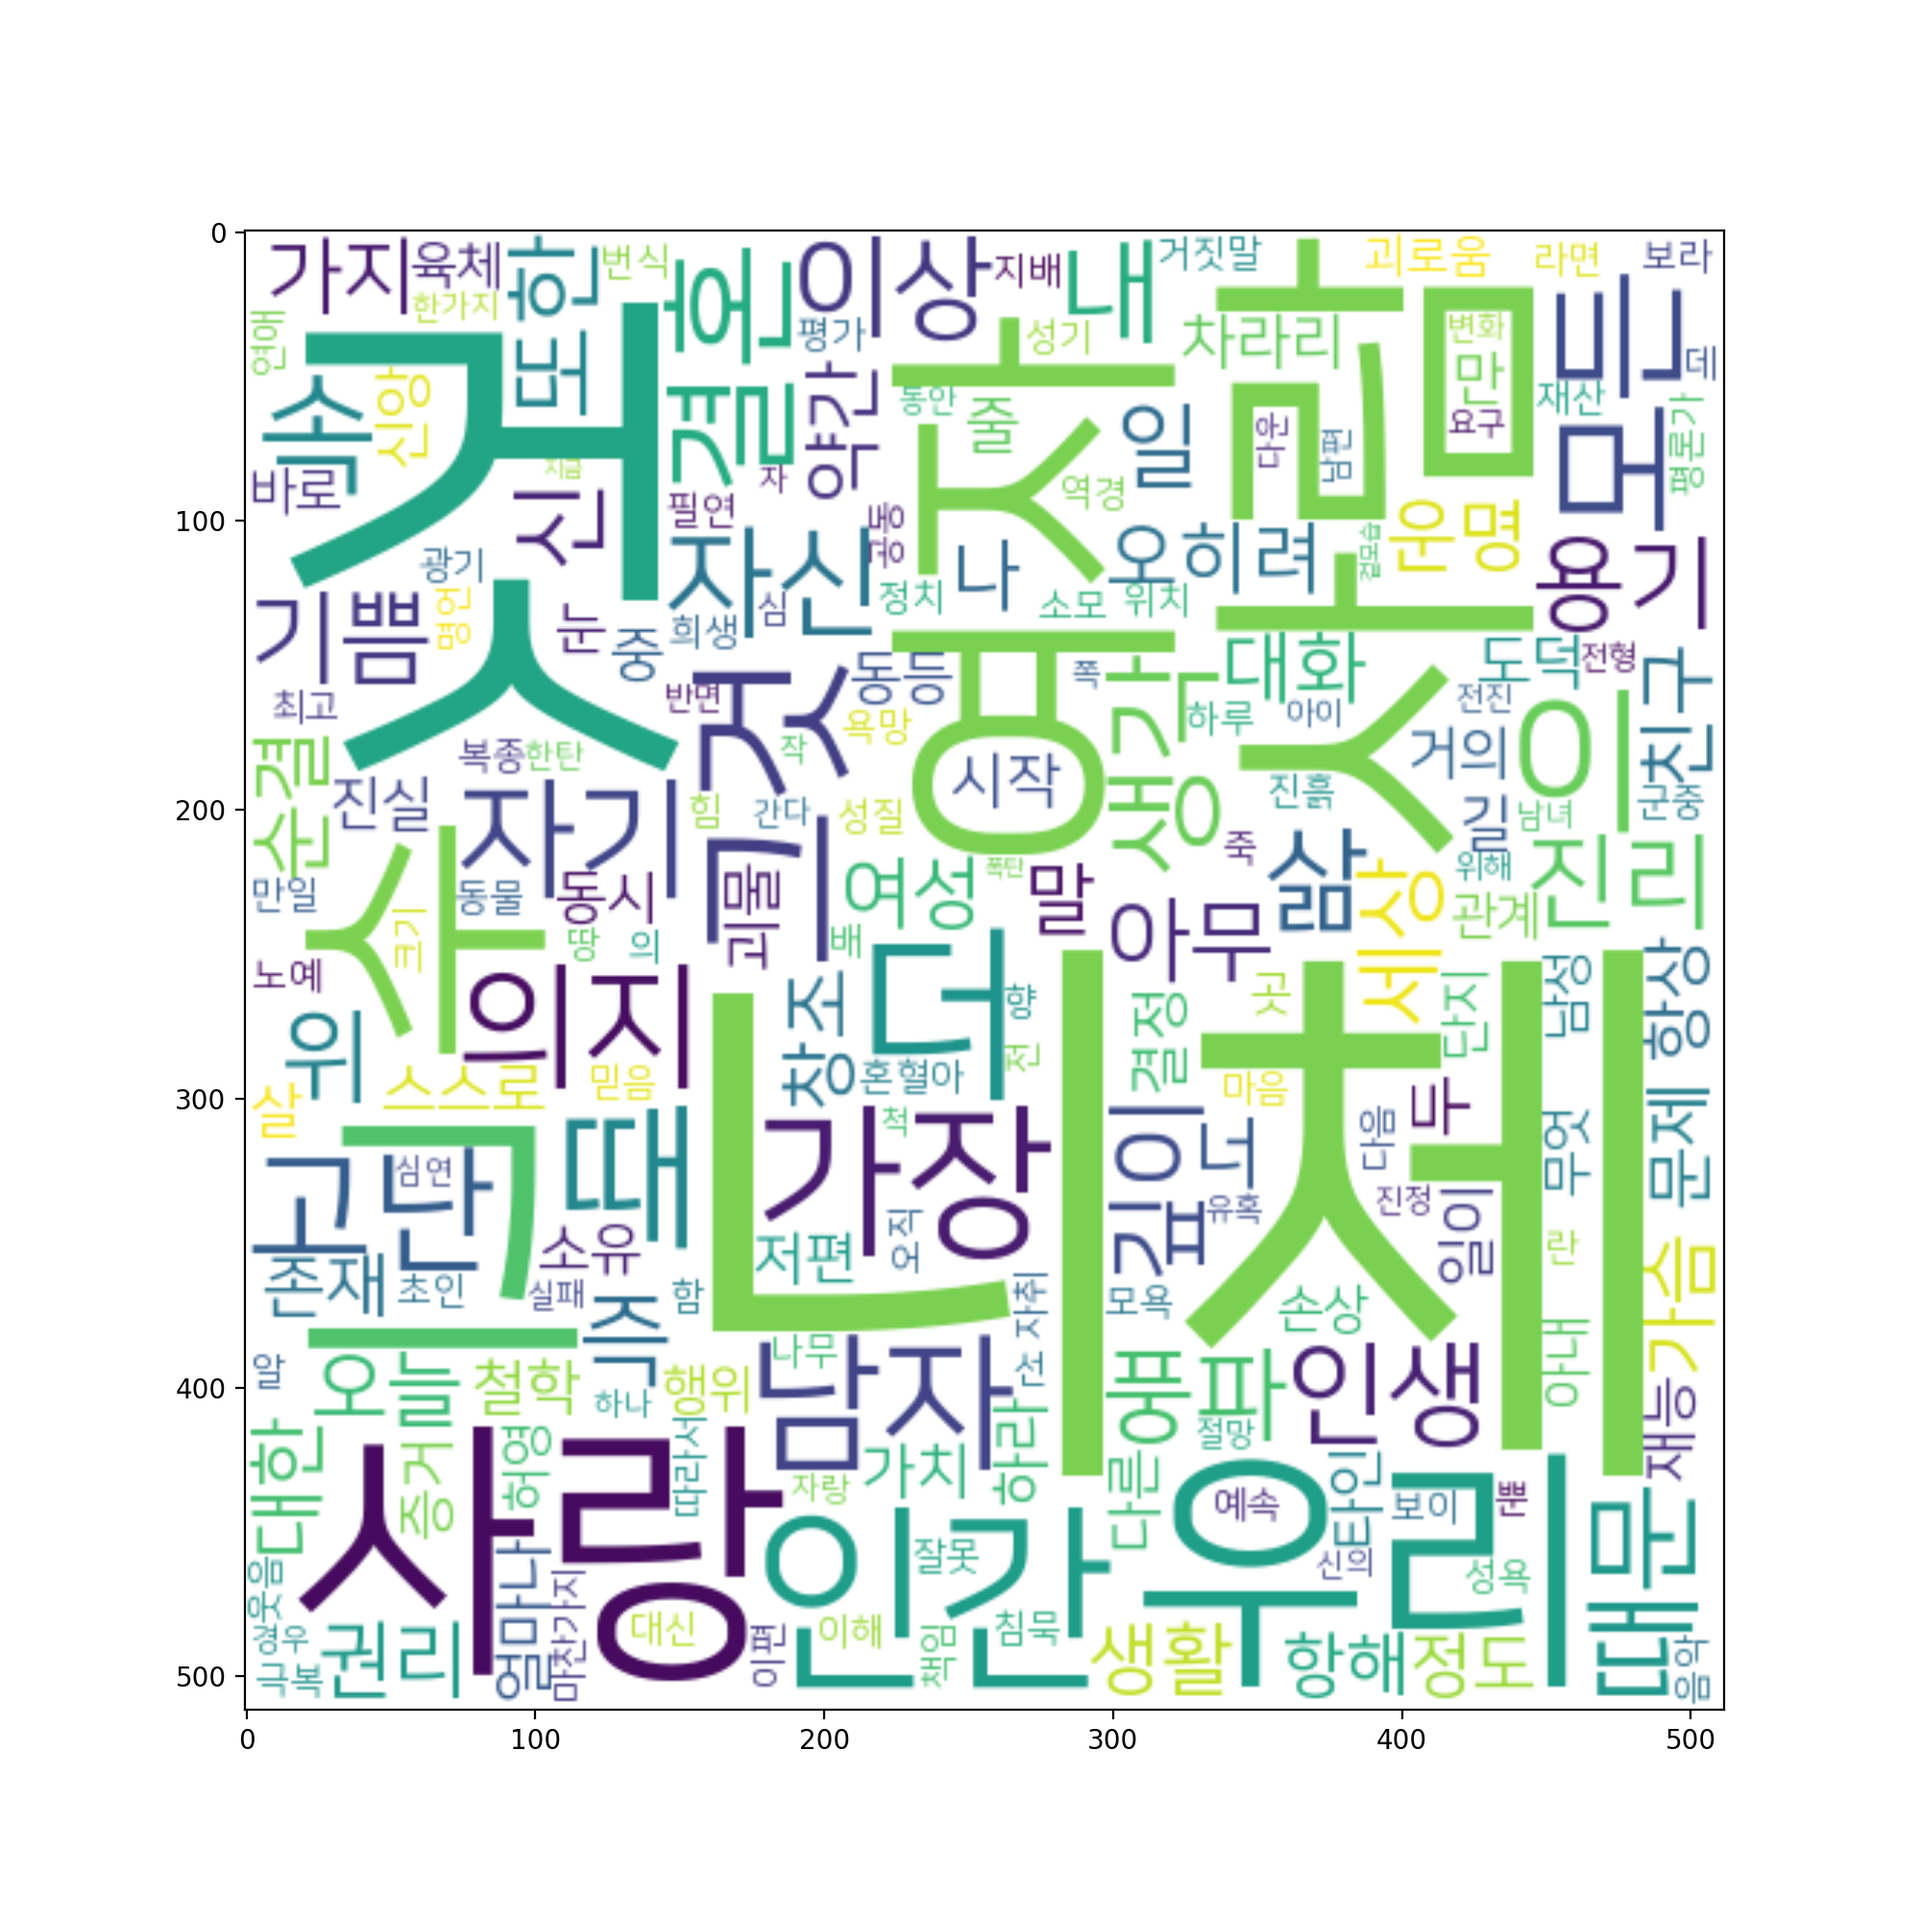
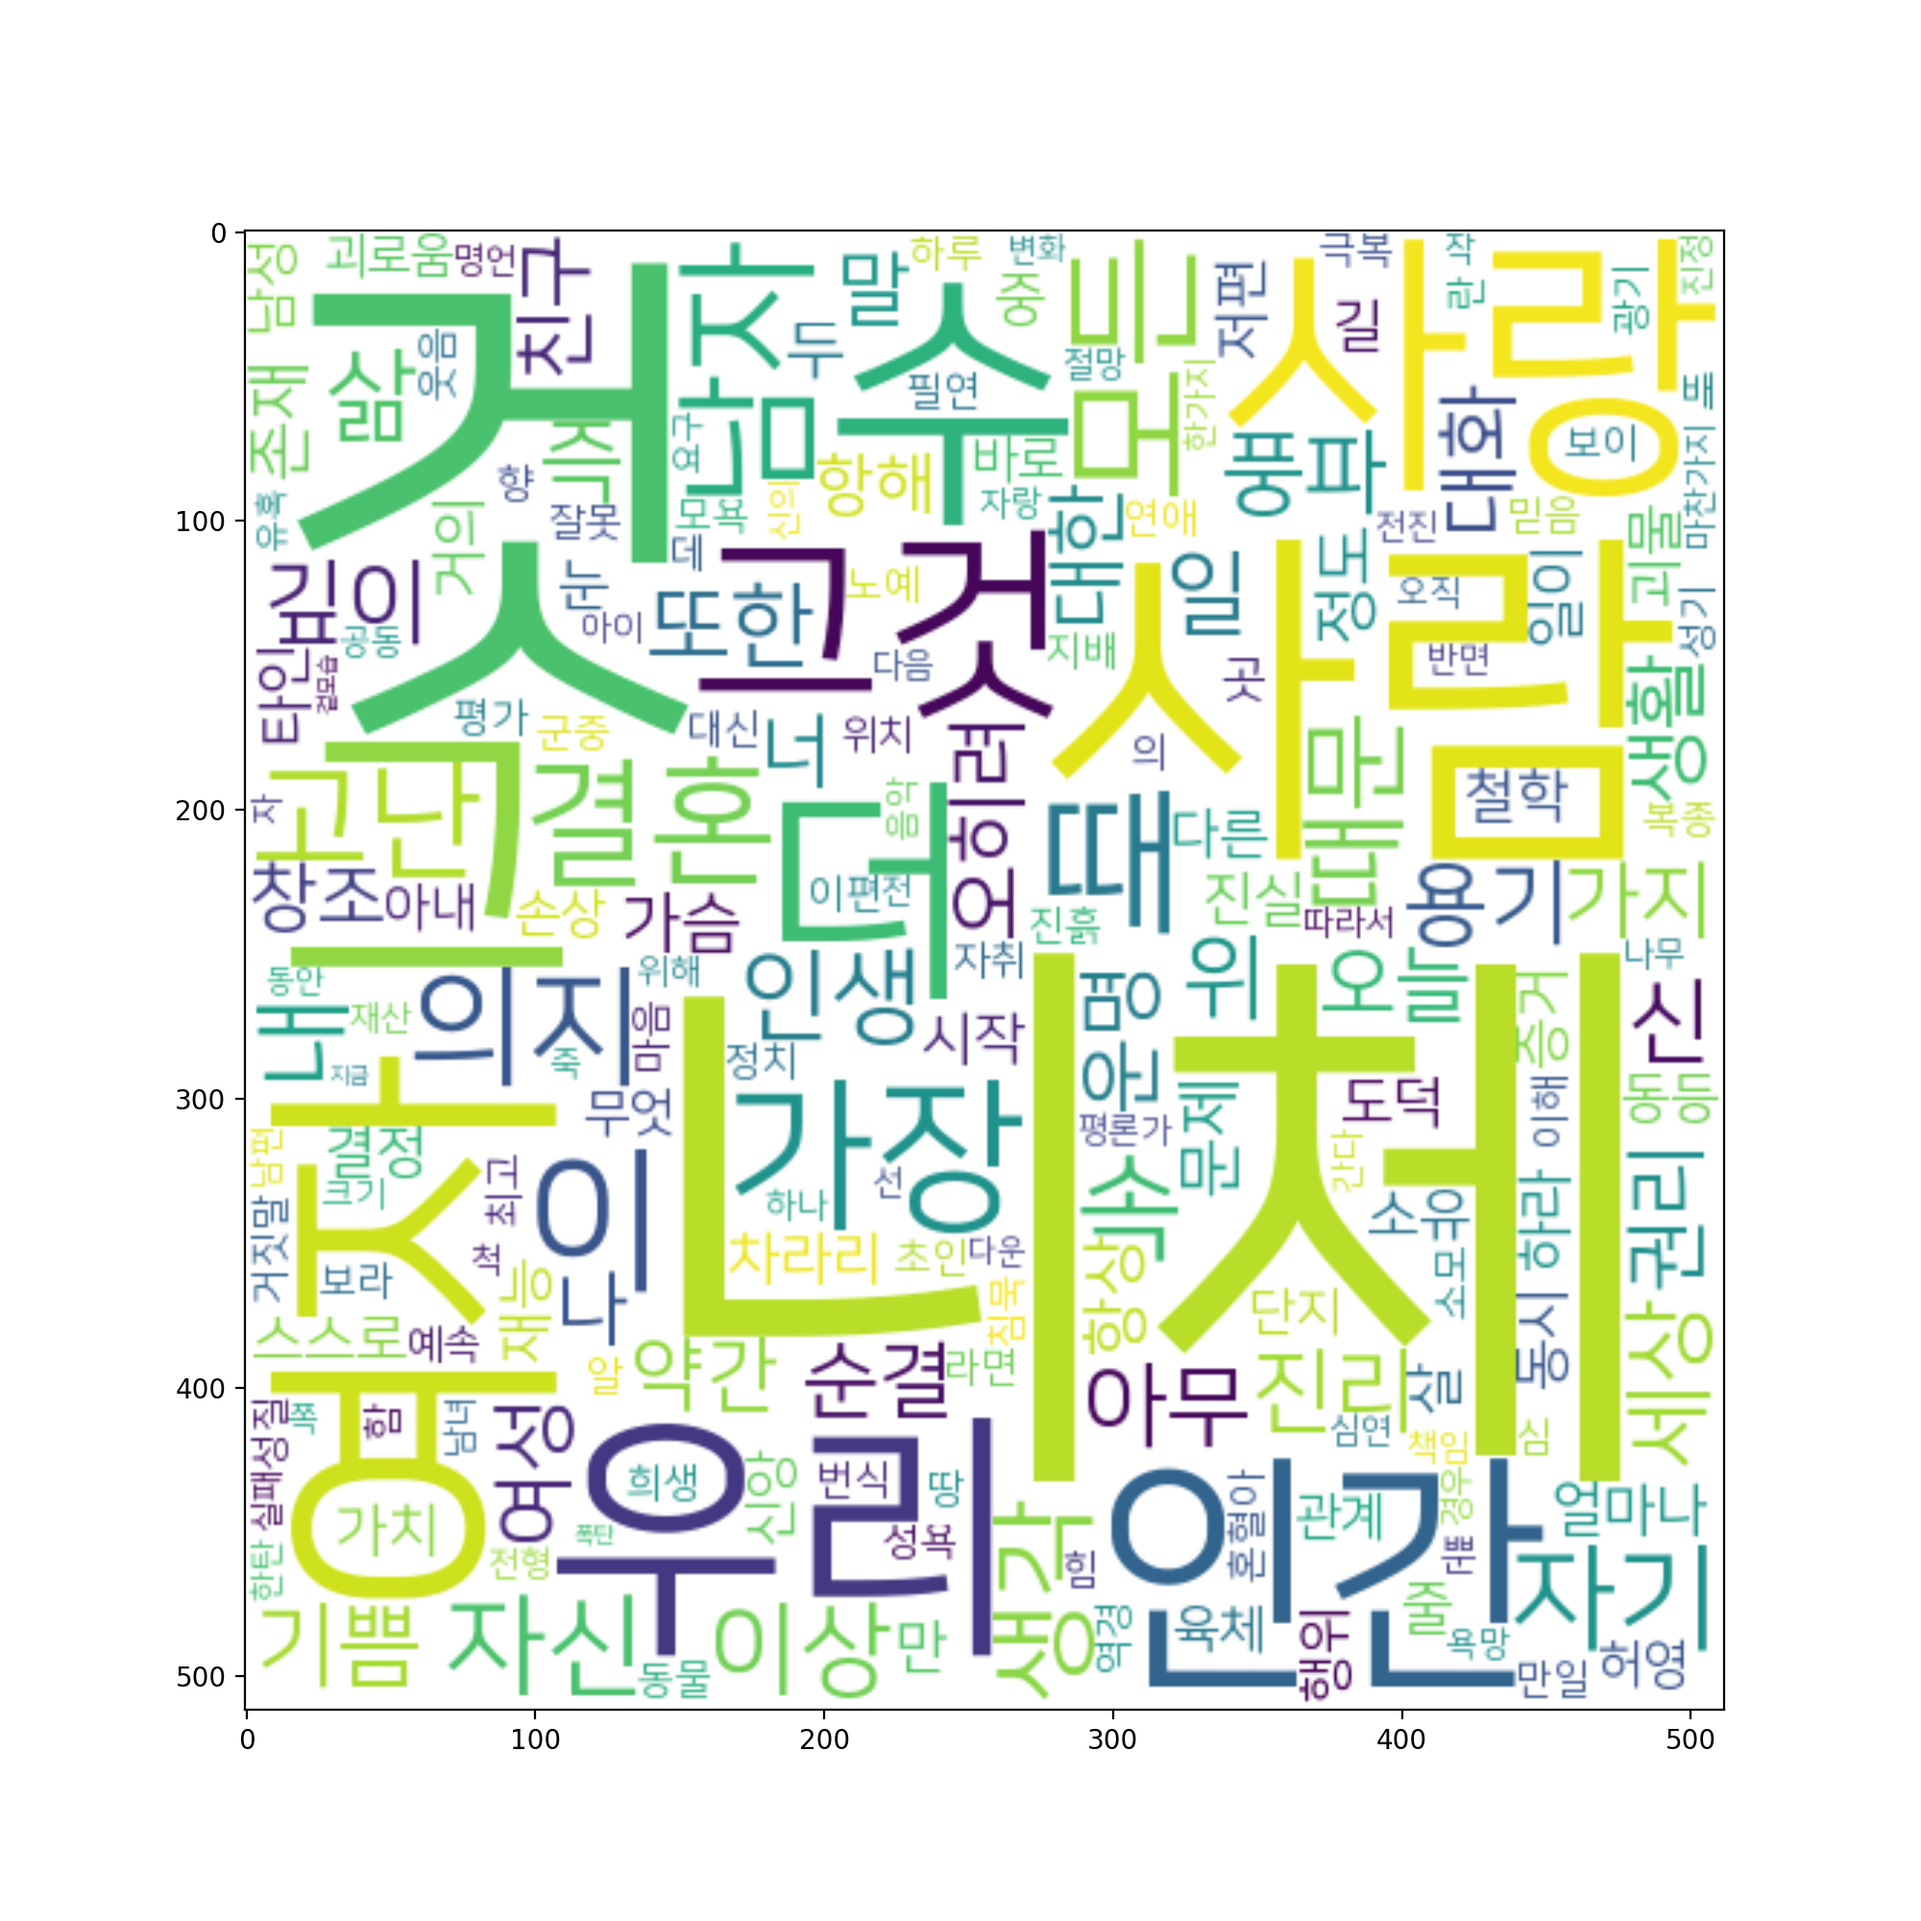
Via upload

diff --git a/novel.py b/novel.py
@@ -1,2 +1,21 @@
-def novel_data(num):
-    
+from keras.callbacks import LambdaCallback
+from keras.models import Sequential
+from keras.layers import Dense, LSTM
+from keras.optimizers import RMSprop
+from keras.utils.data_utils import get_file
+import numpy as np
+
+import random
+import sys
+import io
+import re
+
+def novel_data(path):
+    with io.open(path, encoding='utf-8') as f:
+        text = f.read().lower()
+
+    text = re.sub(r'<.*>', '', text)
+    text = re.sub(r'\n', ' ', text)
+    text = re.sub(r' +', ' ', text)
+
+    print('corpus length:', len(text))

diff --git a/word_clouding.py b/word_clouding.py
@@ -24,14 +24,14 @@ def wordclouding(text):
     tokens  = word_tokenize(texts_noun)
     freqtxt = pd.Series(dict(FreqDist(tokens))).sort_values(ascending=False)
     
-    mask = np.array(Image.open("image/icon.png"))
+    mask = np.array(Image.open("./image/icon.png"))
 
     wcloud = WordCloud(
         font_path='/Library/Fonts/NanumSquareRegular.ttf',
+        mask=mask,
         width = 500,
         height = 500,
-        background_color='white',
-        mask=mask
+        background_color='white'
     )
     wcloud = wcloud.generate_from_frequencies(freqtxt)
 

diff --git a/novel_main.py b/novel_main.py
@@ -1,0 +1,7 @@
+from novel import novel_data
+
+novel_1 = './data/Novel_1.txt'
+novel_2 = './data/Novel_2.txt'
+novel_3 = './data/Novel_3.txt'
+
+novel_data(novel_2)

diff --git a/README.md b/README.md
@@ -1,1 +1,16 @@
 # Python_SchoolProject
+
+대회 끝나고 왔더니 수행이 내일까지라고?? <br/>
+
+큰일났다. 심지어 지금도 대회 기간이라 시간이 많이 없다. <br/>
+
+해커톤 하듯이 뚞딲 만들어보도록 하자. <br/>
+
+
+## Wordcloud - 니체
+
+wcloud_main을 실행시키면 니체 명언을 블로그에서 크롤링 해와서, Wordcloud로 만들어줍니다. [x]
+
+## Novel - 소설
+
+novel_main을 실행시키면 소설 데이터를 읽어와 LSTM으로 학습 한 모델을 활용하여, 소설을 생성합니다. []
